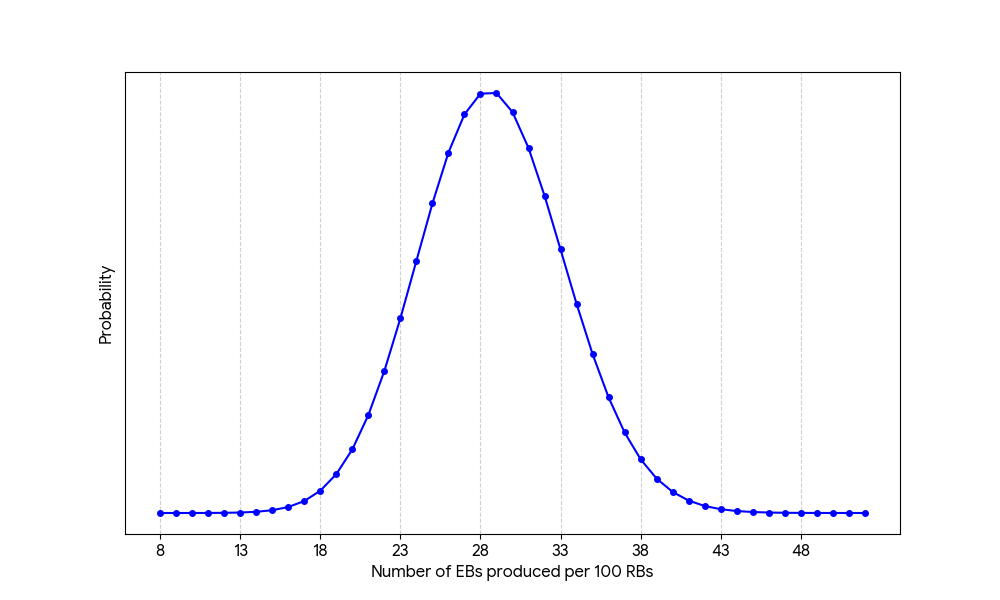
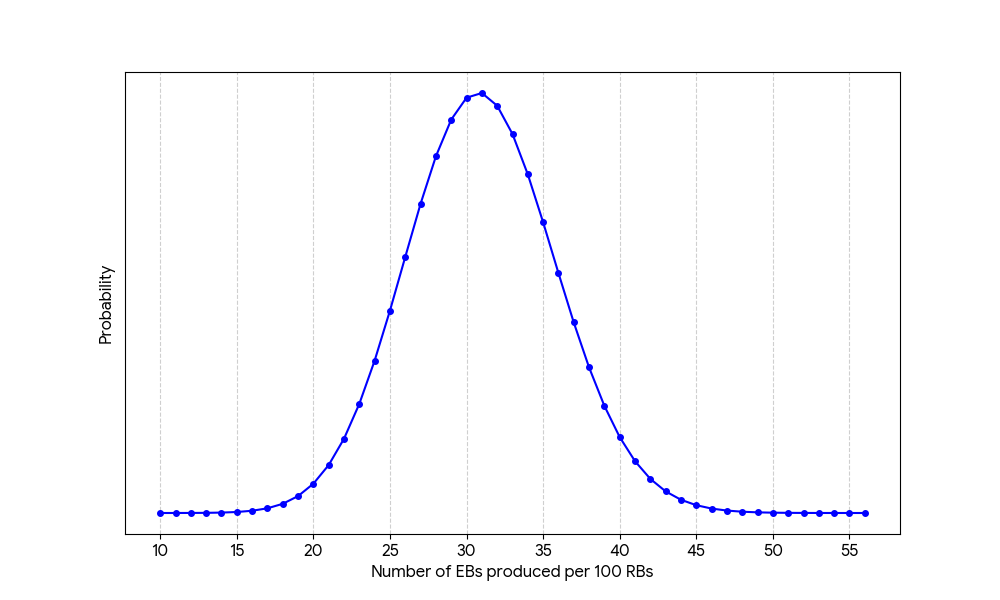
Documented model

diff --git a/analysis/markov/ReadMe.md b/analysis/markov/ReadMe.md
@@ -1,33 +1,85 @@
-# Markov-model simulation for Linear Leios
+# Markovian simulation of Linear Leios
 
-This Markovian model of Linear Leios computes the probability of EB certifications as RBs are produced.
+This Markovian simulation of Linear Leios computes the probability of EB certifications as RBs are produced.
+
 
 ## Contents
 
-- [Approach](#approach)
+- [Model](#model)
 - [Parameters](#parameters)
 - [Example](#example)
 - [Usage](#usage)
 - [Building](#building)
 
 
-## Approach
+## Model
 
-(to be written)
+The protocol state is represented by three quantities.
+
+- The number of RBs that have been produced.
+- The number of EBs that have been produced.
+- Whether an honest RB was produced.
+- Whether a certificate is ready for inclusion in the next RB.
+
+Time is tracked in terms of block-forging opportunties instead of in terms of slots.
+
+Transitions occur in several substeps:
+
+1. *Forge RB:* create a new RB.
+2. *Certify:* include a certificate in the RB.
+3. *Forge EB:* create a new EB.
+4. *Vote:* cast votes to reach a quorum.
+
+
+### Substep 1: Forge RB
+
+The adversarial model assumes that adversaries obstain from producing RBs, EBs, and votes. Let $f_\text{adv}$ be the fraction of stake held by the adversary. Two transitions are possible:
+
+- *Forge a new RB:* probability $1 - f_\text{adv}$.
+- *Abstain from forging a new RB:* probability $f_\text{adv}$. 
+
+
+### Substep 2: Certify
+
+Provided that a quorum of votes have endorsed the EB, the following conditions are required for certifying it in the RB that was just forged.
+
+- *RB spacing:* The previous RB must have been forged at least $3 L_\text{hdr} + L_\text{vote} + L_\text{diff}$ slots previously.
+    - The distribution of gaps between RBs follows the negative-binomial distribution.
+- *Quorum:* The voting yielded a quorum.
+- *Not an adversary:* There is no RB if an adversary is the designated block producer.
+
+
+### Substep 3: Forge EB
+
+Provided that an honest RB exists, an EB can be forged if the node has received the previous EB and computed the ledger state.
+
+- Because of their membership in the previous vote, a fraction $n_\text{comm} / n_\text{pools}$ of the pools have already updated their ledger state.
+- Of the pools not having voted on the block we define $p_\text{late}$ as the probability that the EB has arrived too late to compute the ledger state needed to produce the next EB.
+
+
+### Substep 4: Vote
+
+Obtaining a successful quorum of votes is distributed according to bernoulli trials where the expected number of successes is the mean committee size and the success probabilities of individual pools accord with the stake distribution. Those success probabilities are modified in several ways:
+
+- *Adversaries do not vote:* probability $f_\text{adv}$.
+- *RB header arrives within $L_\text{hdr}$ slots:* probability $p_\text{rb}$.
+- *EB is fully validated within $3 L_\text{hdr} + L_\text{vote}$ slots*: probability $p_\text{eb}$.
 
 
 ## Parameters
 
-| Symbol          | Flag                    | Default | Description                                                                         |
-|-----------------|-------------------------|--------:|-------------------------------------------------------------------------------------|
-| $L_\text{hdr}$  | `--l-header`            |       1 | Constraint on header diffusion time.                                                |
-| $L_\text{vote}$ | `--l-vote`              |       4 | Constraint on voting time.                                                          |
-| $L_\text{diff}$ | `--l-diff`              |       7 | Constraint on diffusion time.                                                       |
-| $m$             | `--committee-size`      |     600 | Number of members on the voting committee.                                          |
-| $\tau$          | `--quorum-fraction`     |    0.75 | Stake-weighted fraction of committee's votes required to produce a certificate.     |
-| $p_\text{rb}$   | `--p-rb-header-arrives` |    0.95 | Probability that the RB header arrives at the node before $L_\text{hdr}$ seconds.   |
-| $p_\text{eb}$   | `--p-eb-validates`      |    0.90 | Probability that the EB is fully validated before $3 L_\text{hdr} + L_\text{vote}$. |
-| $f_\text{adv}$  | `--adversary-fraction`  |    0.00 | Fraction of stake held by adversaries.                                              |
+| Symbol           | Flag                    | Default | Description                                                                                          |
+|------------------|-------------------------|--------:|------------------------------------------------------------------------------------------------------|
+| $L_\text{hdr}$   | `--l-header`            |       1 | Constraint on header diffusion time.                                                                 |
+| $L_\text{vote}$  | `--l-vote`              |       4 | Constraint on voting time.                                                                           |
+| $L_\text{diff}$  | `--l-diff`              |       7 | Constraint on diffusion time.                                                                        |
+| $n_\text{comm}$  |                         |    2500 | Number of stakepools (constant).                                                                     |
+| $n_\text{pools}$ | `--committee-size`      |     600 | Number of members on the voting committee.                                                           |
+| $\tau$           | `--quorum-fraction`     |    0.75 | Stake-weighted fraction of committee's votes required to produce a certificate.                      |
+| $p_\text{rb}$    | `--p-rb-header-arrives` |    0.95 | Probability that the RB header arrives at a node before $L_\text{hdr}$ seconds.                      |
+| $p_\text{eb}$    | `--p-eb-validates`      |    0.90 | Probability that the EB is fully validated by a node before $3 L_\text{hdr} + L_\text{vote}$.        |
+| $p_\text{late}$  | `--p-late-diffusion`    |    0.05 | Probability that an RB producer hasn't yet validated the EB by the time they need to forge their RB. |
+| $f_\text{adv}$   | `--adversary-fraction`  |    0.00 | Fraction of stake held by adversaries.                                                               |
 
 
 ## Example
@@ -49,17 +101,18 @@ lake exe linleios \
   --committee-size 600 \
   --quorum-fraction 0.80 \
   --p-rb-header-arrives 0.95 \
-  --p-eb-validates 0.85 \
+  --p-eb-validates 0.95 \
+  --p-late-diffusion 0.05 \
   --rb-count 100 \
   --adversary-fraction 0.1 \
   --output-file tmp.json
 ```
 
 ```console
-RB efficiency: 0.899977
-EB efficiency: 0.290308
-Overall efficiency: 0.331256
-Missing probability: 0.000028
+RB efficiency: 0.899974
+EB efficiency: 0.313049
+Overall efficiency: 0.352469
+Missing probability: 0.000030
 ```
 
 ```bash
@@ -68,51 +121,53 @@ jq 'to_entries | sort_by(.key | tonumber) | from_entries' tmp.json
 
 ```console
 {
-  "8": 0,
-  "9": 0.000001,
-  "10": 0.000003,
-  "11": 0.000012,
-  "12": 0.000036,
-  "13": 0.0001,
-  "14": 0.000251,
-  "15": 0.000582,
-  "16": 0.001251,
-  "17": 0.0025,
-  "18": 0.004659,
-  "19": 0.008126,
-  "20": 0.013297,
-  "21": 0.020463,
-  "22": 0.02968,
-  "23": 0.040648,
-  "24": 0.052656,
-  "25": 0.064622,
-  "26": 0.07524,
-  "27": 0.083218,
-  "28": 0.087538,
-  "29": 0.087673,
-  "30": 0.083686,
-  "31": 0.076199,
-  "32": 0.066239,
-  "33": 0.055015,
-  "34": 0.043687,
-  "35": 0.03319,
-  "36": 0.024137,
-  "37": 0.016812,
-  "38": 0.011221,
-  "39": 0.00718,
-  "40": 0.004405,
-  "41": 0.002593,
-  "42": 0.001464,
-  "43": 0.000794,
-  "44": 0.000413,
-  "45": 0.000206,
-  "46": 0.000098,
-  "47": 0.000045,
-  "48": 0.000019,
-  "49": 0.000008,
-  "50": 0.000003,
-  "51": 0.000001,
-  "52": 0
+  "10": 0,
+  "11": 0.000003,
+  "12": 0.00001,
+  "13": 0.000031,
+  "14": 0.000081,
+  "15": 0.000196,
+  "16": 0.00044,
+  "17": 0.000919,
+  "18": 0.001799,
+  "19": 0.003308,
+  "20": 0.005731,
+  "21": 0.009381,
+  "22": 0.014533,
+  "23": 0.021353,
+  "24": 0.029805,
+  "25": 0.039585,
+  "26": 0.050095,
+  "27": 0.060484,
+  "28": 0.069757,
+  "29": 0.07693,
+  "30": 0.081208,
+  "31": 0.082129,
+  "32": 0.079641,
+  "33": 0.074106,
+  "34": 0.066214,
+  "35": 0.056847,
+  "36": 0.04692,
+  "37": 0.037253,
+  "38": 0.028464,
+  "39": 0.020939,
+  "40": 0.014837,
+  "41": 0.010129,
+  "42": 0.006664,
+  "43": 0.004227,
+  "44": 0.002586,
+  "45": 0.001525,
+  "46": 0.000868,
+  "47": 0.000476,
+  "48": 0.000252,
+  "49": 0.000128,
+  "50": 0.000063,
+  "51": 0.00003,
+  "52": 0.000013,
+  "53": 0.000005,
+  "54": 0.000002,
+  "55": 0.000001,
+  "56": 0
 }
 ```
 
@@ -150,6 +205,9 @@ USAGE:
     --p-eb-validates : Float           Probability that the EB is fully
                                        validated before 3 L_header + L_vote.
                                        [Default: `0.90`]
+    --p-late-diffusion : Float         Probability than a RB producer hasn't
+                                       validated the previous EB. [Default:
+                                       `0.05`]
     --adversary-fraction : Float       Fraction of stake that is adversarial:
                                        the adversary never produces RBs or EBs
                                        and never votes. [Default: `0`]
